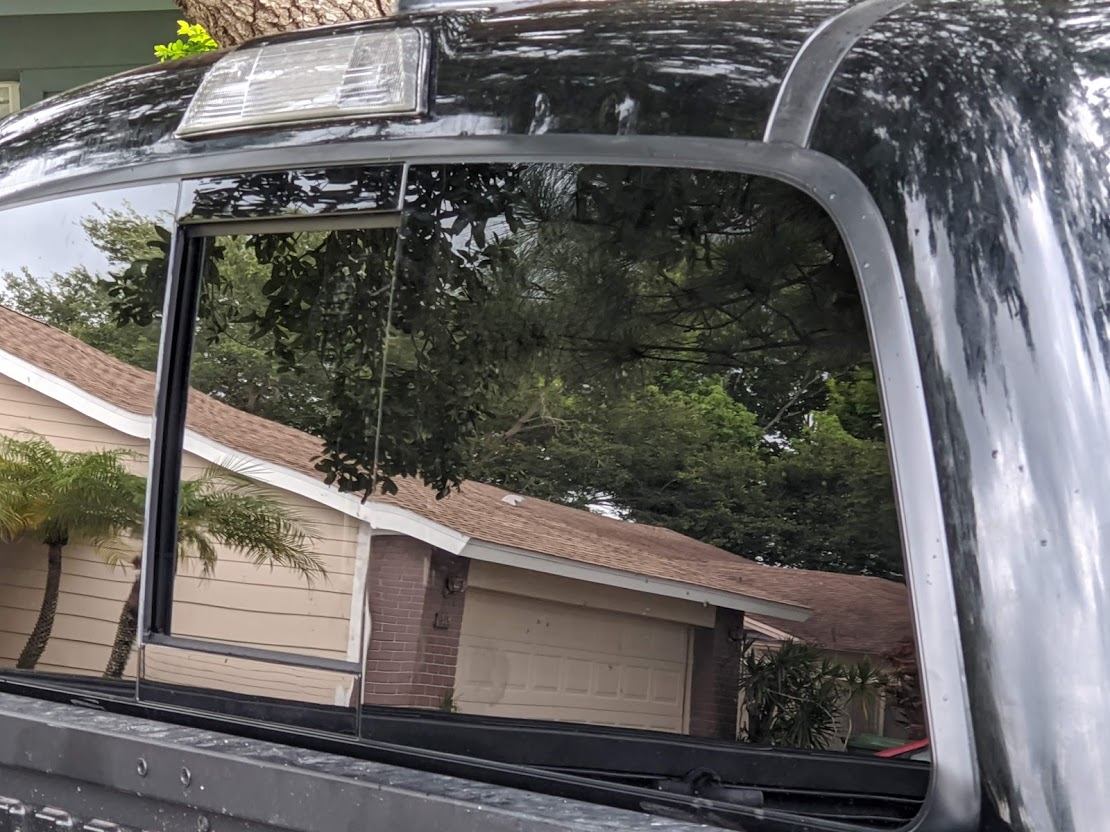
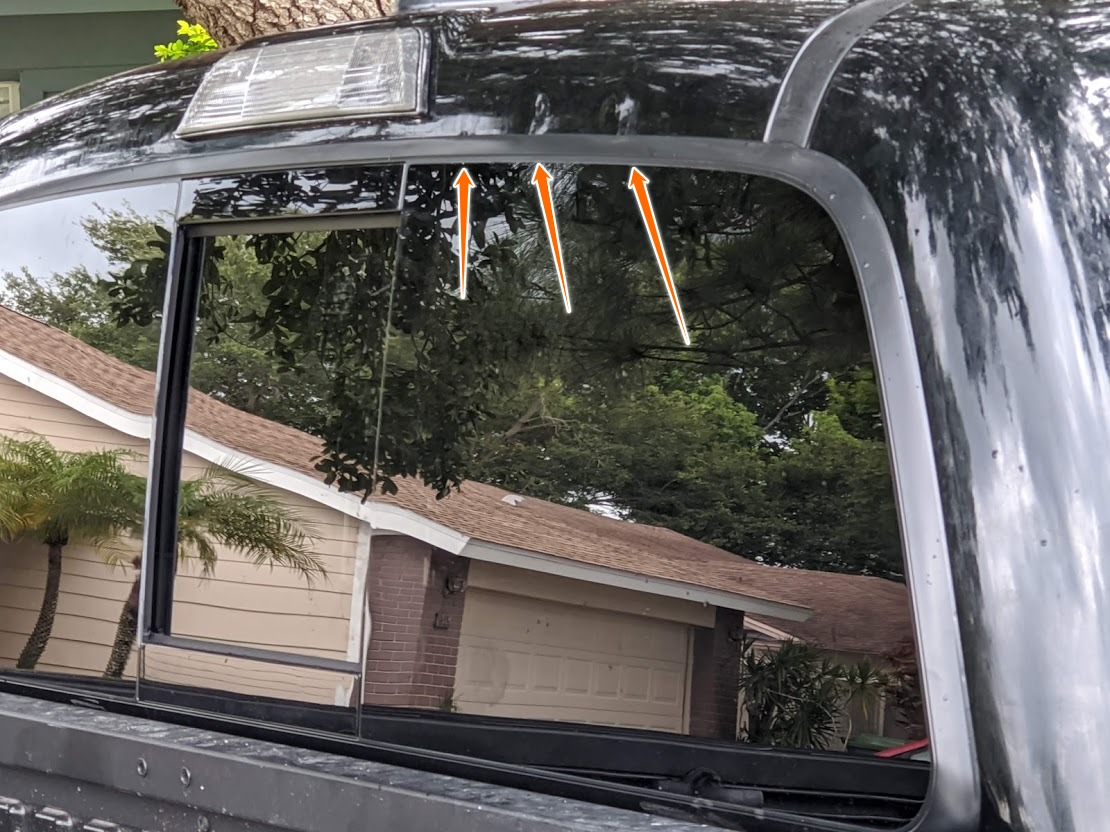
Updates

diff --git a/README.md b/README.md
@@ -210,17 +210,68 @@ I believe the question of wether I did the damages to my vehicle, or if the tech
 <details>
   <summary>Pictures of the damages</summary>
   
+  *Picture 1*
+
   ![](./resources/truck1.jpg)
+
+  *Picture 2*
 
   ![](./resources/truck2.jpg)
 
+  *Picture 3*
+
   ![](./resources/truck3.jpg)
-  
+
+  *Picture 4*
+
   ![](./resources/truck4.jpg)
+
+  *Picture 5*
+
+  ![](./resources/truck-broken-seal-1.jpg)
+
+  *Picture 6*
+
+  ![](./resources/truck-broken-seal-2.jpg)
 
 </details>
 
-**I witnessed the technicians use a pole as a prybar.**
+## Point A
+
+I witnessed technician B use a long bar, prying out the window exactly where the damages are. After some research, I believe it to be a knife bar, common in the auto-glass industry.
+
+<details>
+  <summary>Pictures of a pipe knife</summary>
+  
+  ![](./resources/pipe-knife.jpg)
+
+</details>
+
+When I witnessed technician B using the pipe knife, I didn't think anything of it, assuming it was all routine and that they've done this many times before.
+
+If you look at the damage, it seems obvious that the dents are due to a prying-like action. The bigger dents are to the right, where the prying would begin, becoming smaller as you move to the left, as less pressure is needed as the window comes lose.
+
+## Point B
+
+After the window was replaced and the damage was mentioned to the technicians, technician A confided in me, saying
+
+> It's part of our process to take photos of any existing damages before we begin our work, and since we *didn't* take any photos, I will have the boss come square up with you.
+
+Technician A acknowledged that he didn't see the damage before by admitting that he did not take any photos.
+
+This point was mentioned during mediation. I asked Greg if taking photos of existing damages was a rule established for all jobs, and Greg stated "yes". I then asked if his employee had these pictures, and Greg stated "I don't know".
+
+If Greg were to have pictures of the damages before the window was replaced, I would have no case. And given that this rule is implemented within Blue Ribbon for precicly cases like this, I can only conclude that Greg did in fact ask his employee if he had the pictures, but refused to say decisevly that his employee didn't in-fact have them. It doesn't happen often, but in this case, I believe that lack of exculpatory from the defendent actually strengthens my case.
+
+## Point C
+
+Greg claims that the damages to the window were done by the debris that I presumedly threw into the back of the truck. However, this would require an extraordinary amount of happenstance.
+
+First, consider that all the dents appear perfectly along the seal of the window, with each dent becoming smaller as you move from right to left.
+
+What this means is that I would have to either A) throw an object with 3-4 pointed ends so that each end of the points line up *exactly* with the window seal, curverature and all, or B) through 3-4 objects at the truck, with each point of contact hitting percicle along the window seal, with each impact having slightly less force as you move from right to left.
+
+The damage is much more consitent to what you'd see when prying the window out, with 3-4 lever-points, from right to left, with each lever-point requiring less and less effort, hence the smaller dents as you move from right to left. I actually witnessed technician B holding the pipe knife directly where the dents where, and that the technicians mentioned to me the incredible difficulty that had removing the window.
 
 # Mediation, before court
 
